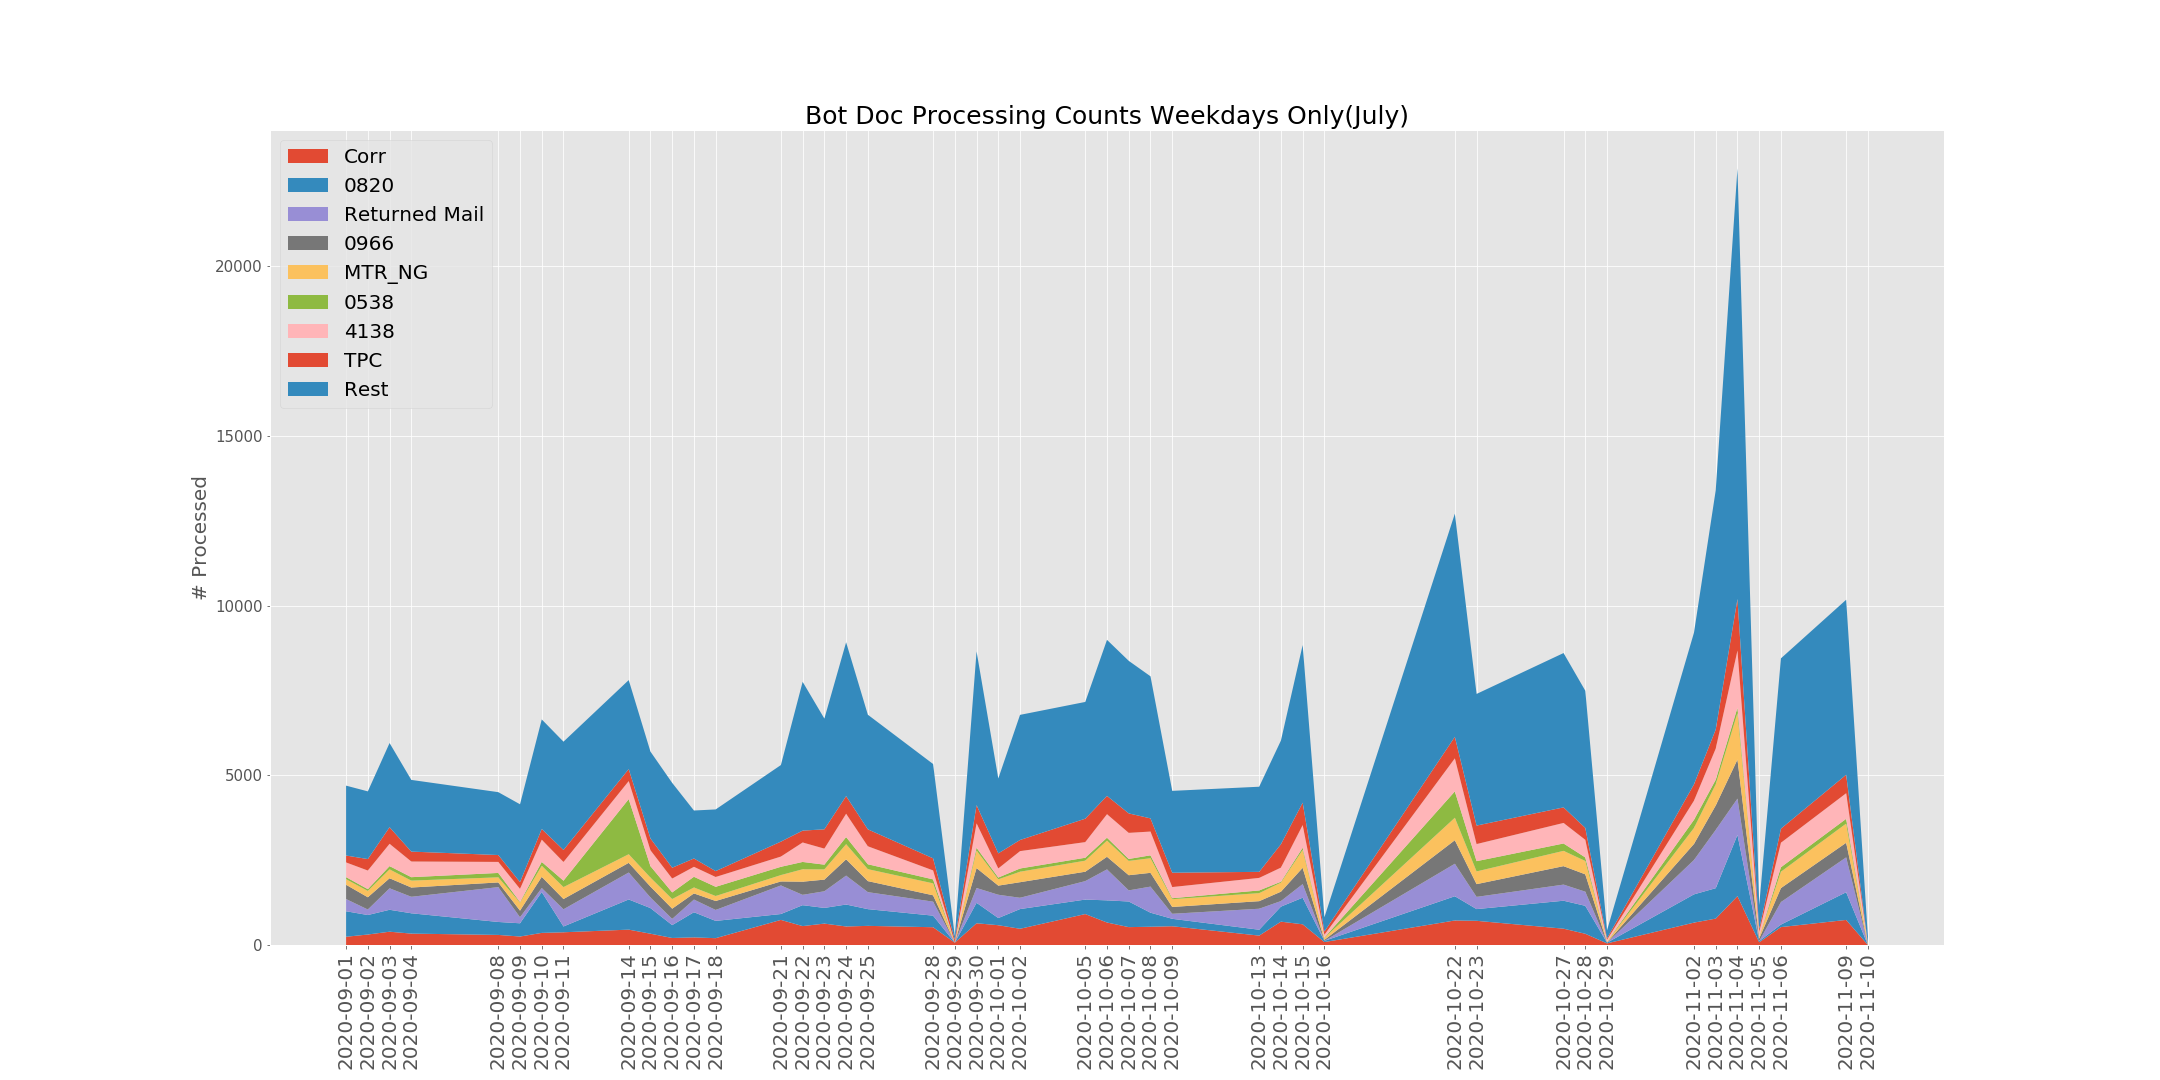
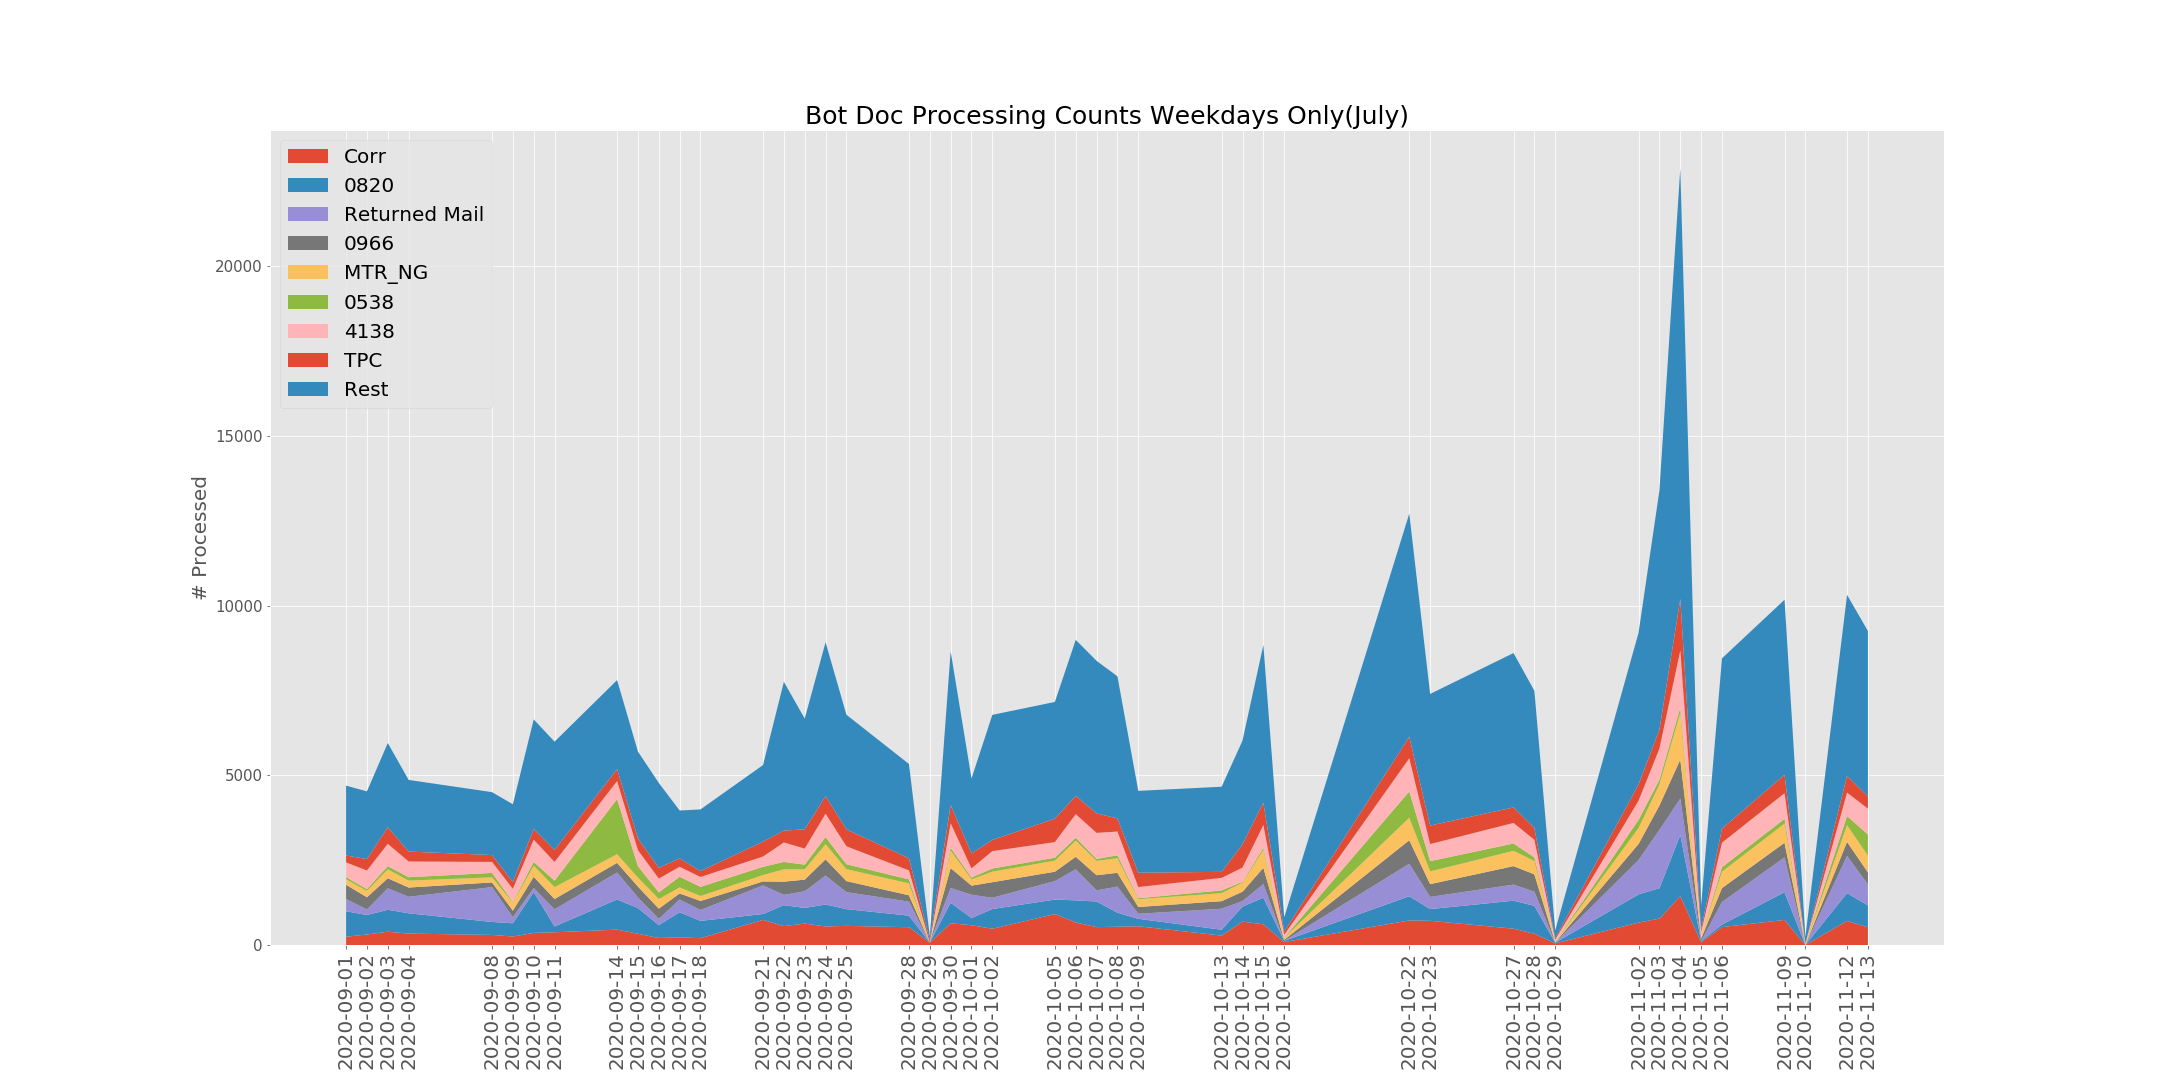
updates

Changed region(s): [[0.1551, 0.1833, 0.8685, 1.0], [0.3412, 0.6111, 0.4032, 0.7333], [0.1551, 0.7944, 0.1861, 0.825]]

diff --git a/Weekly.html b/Weekly.html
@@ -13,8 +13,8 @@
 
   <ul class='nav'>
     <div class='box-3'>
-      <li><a href='Todd.html'>Todd's Reports |<a/></li>
-      <li><a href='index.html'> Home |<a/></li>
+      <li><a href='Todd.html'>Todd's Reports |<a /></li>
+      <li><a href='index.html'> Home |<a /></li>
     </div>
     </div>
   </ul>
@@ -23,7 +23,7 @@
     <h1>
       <figure class='box'>Daily Dash #s are current from IBM Prod report the week prior
     </h1>
-    <iframe src=https://chart-studio.plotly.com/~mshuff/867.embed height=700px, width=1100px></iframe>
+    <iframe src=https://chart-studio.plotly.com/~mshuff/881.embed height=700px, width=1100px></iframe>
 
     </figure>
     <div class='center'>
@@ -38,7 +38,7 @@
     <p>Purpose of this graph is to track irregular doc_status spikes.</p>
 
     <h1>
-          Validation Analysis
+      Validation Analysis
     </h1>
     <img src='Reviews and Confidence level.png' height='850px' width='700px' class='center'>
     <p>Total # of validation reviews and Sample confidence level based on a 5% margin of error.</p>
@@ -49,14 +49,23 @@
 
     <p>This is a daily Doc_Status tracker.</p>
     <p><b>Summary Window</b></p>
-    <p><i> Change percentages are calculated every 5 days(week) from where we were 5 days ago.</i><p>
+    <p><i> Change percentages are calculated every 5 days(week) from where we were 5 days ago.</i>
+    <p>
     <ul>
-      <li><p>Biggest Increases this month: 0538, Corr.</p></li>
-      <li><p>Biggest decreases this month: 4138, Ret Mail.</p></li>
-      <li><p>Overall Processing rate increased 13% this month.</p></li>
+      <li>
+        <p>Biggest Increases this month: 0538, Corr.</p>
+      </li>
+      <li>
+        <p>Biggest decreases this month: 4138, Ret Mail.</p>
+      </li>
+      <li>
+        <p>Overall Processing rate increased 13% this month.</p>
+      </li>
 
 
-      <li><p>Weekly Summary: Large increase in TPC, 4138, CORR, 526 EZ. Decrease in 0966 Prod.</p></li>
+      <li>
+        <p>Weekly Summary: Large increase in TPC, 4138, CORR, 526 EZ. Decrease in 0966 Prod.</p>
+      </li>
 
     </ul>
 
